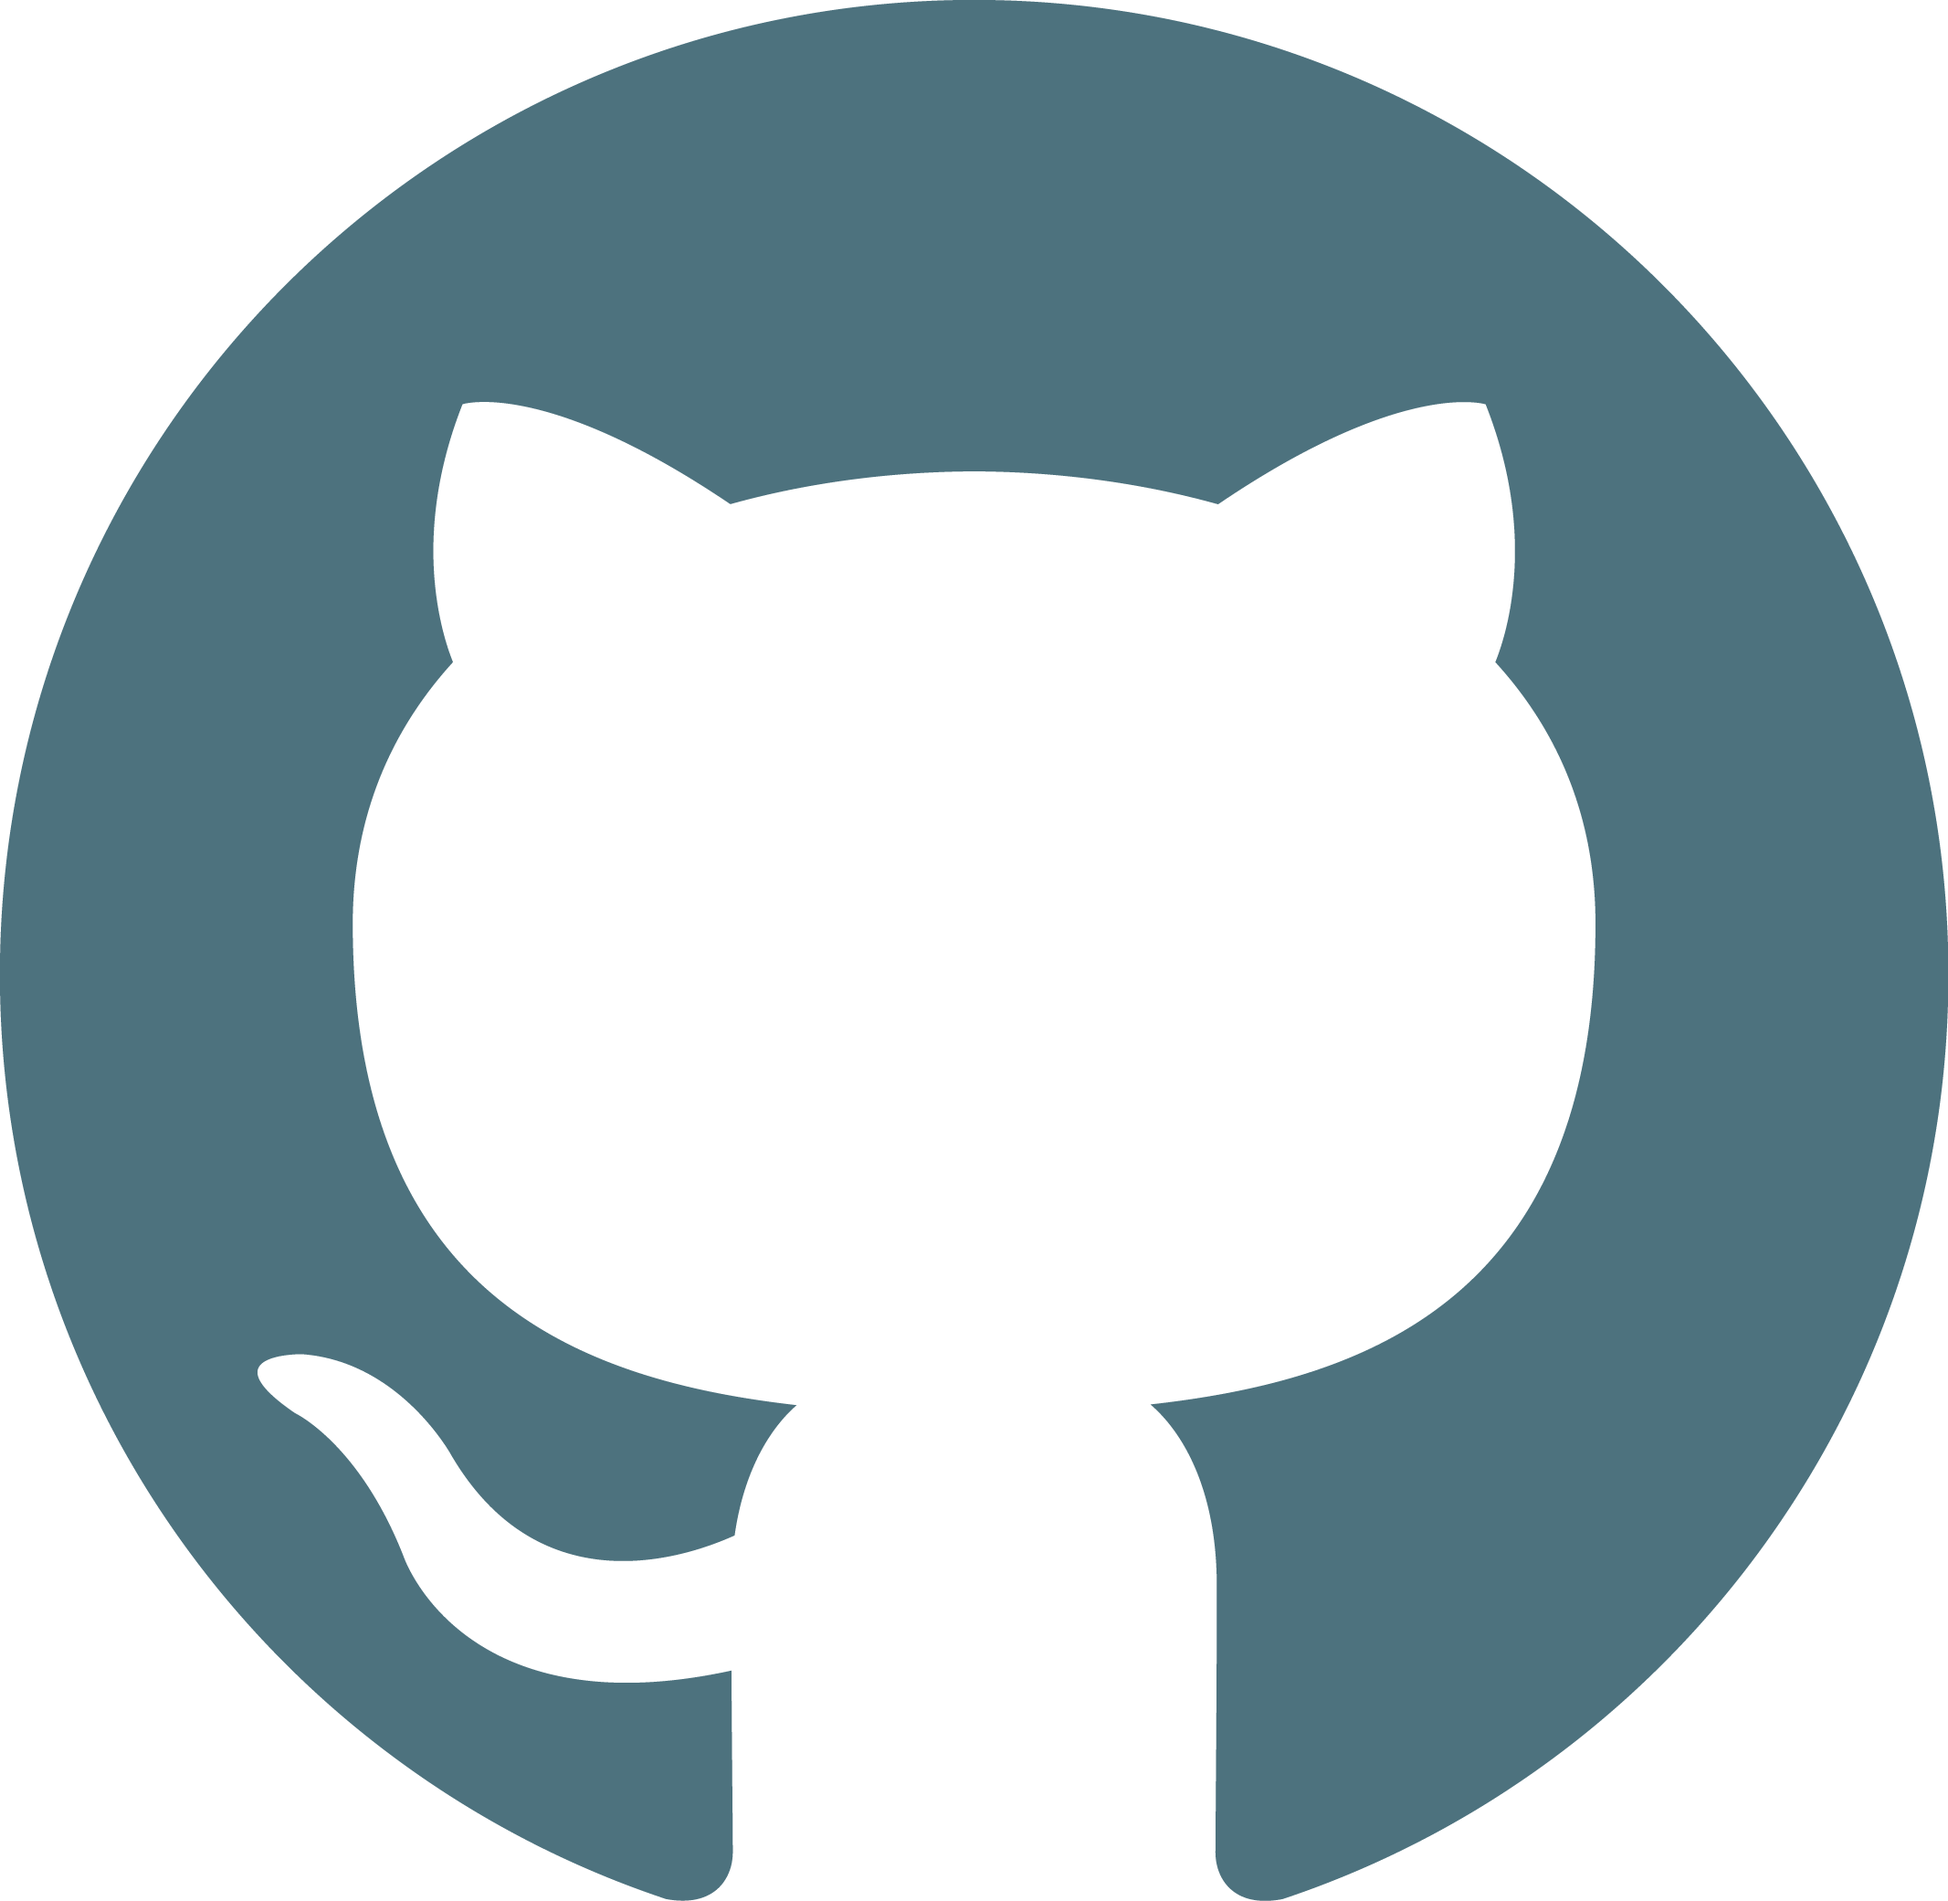
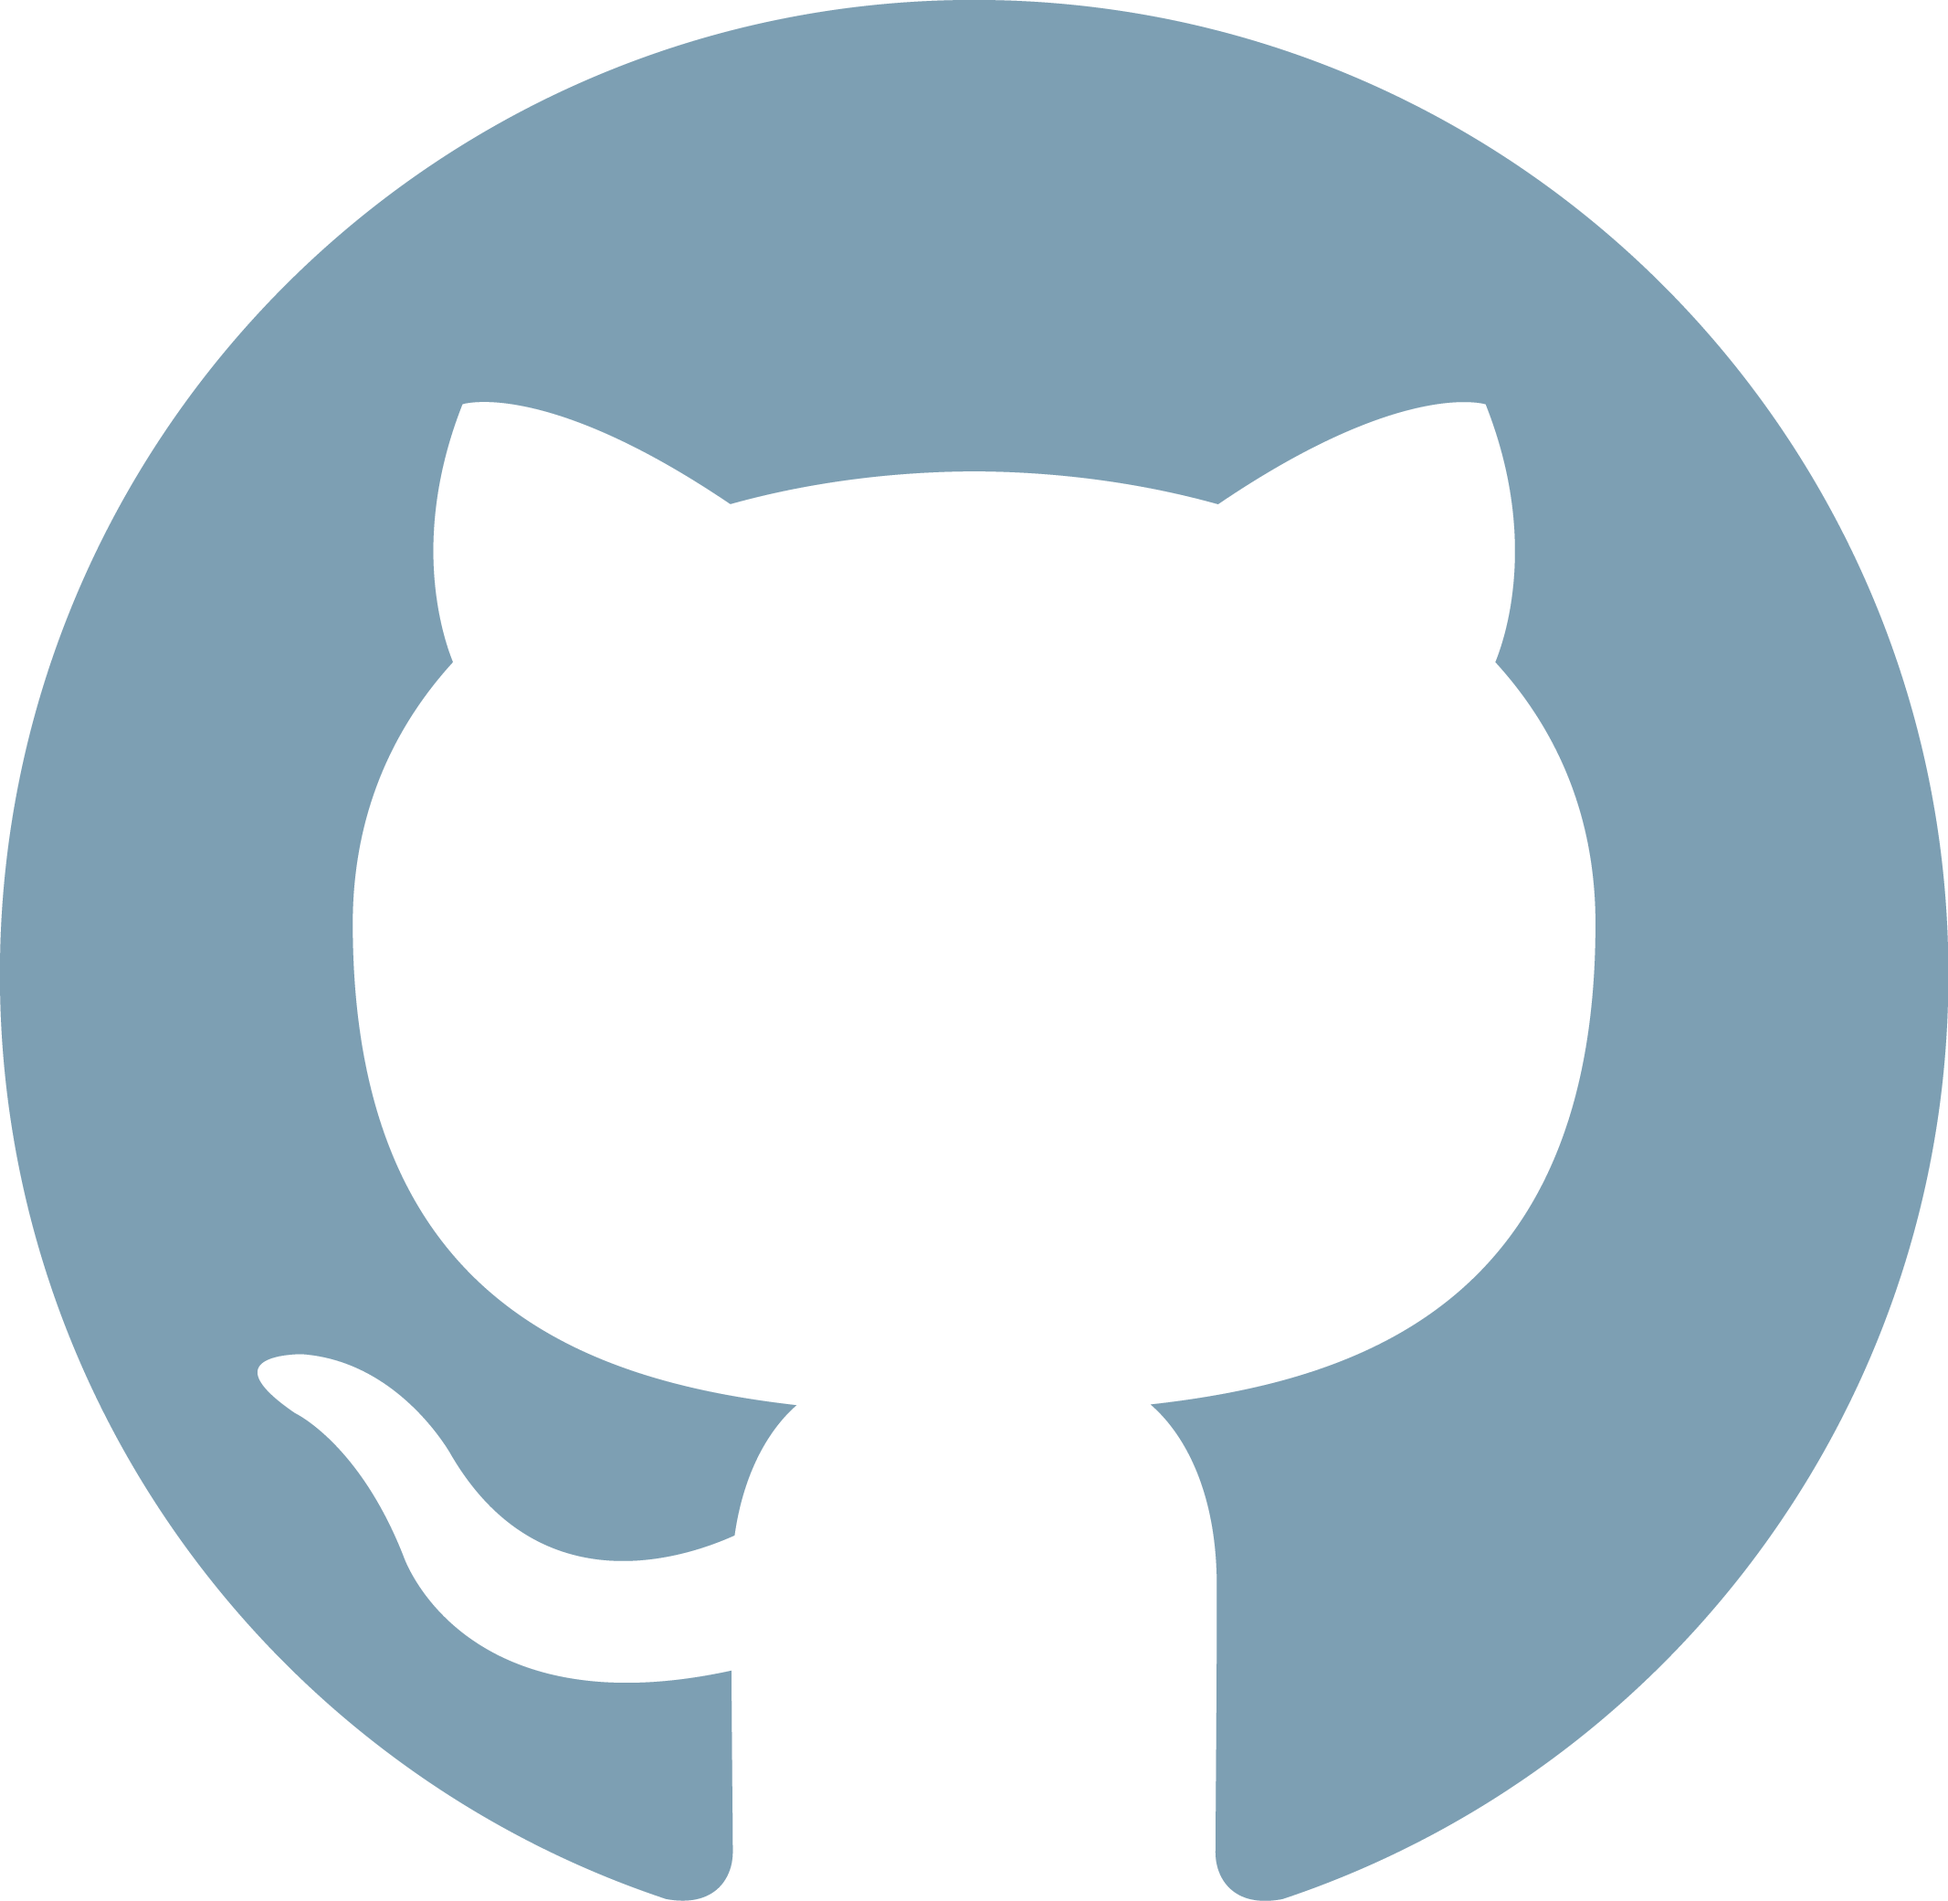
update style contact, about, name, skills

diff --git a/app/styles/app.scss b/app/styles/app.scss
@@ -7,7 +7,6 @@ body {
 }
 
 a {
-  color: white;
   text-decoration: none;
 }
 
@@ -40,6 +39,12 @@ li {
   flex-direction: column;
 }
 
+.col-6 {
+  width: 50%;
+  display: flex;
+  flex-direction: column;
+}
+
 .col-4 {
   width: 33.33%;
   display: flex;
@@ -51,40 +56,67 @@ li {
   margin-bottom: 0;
 }
 
+.med-paragraph {
+  font-size: 16px;
+}
+
 
 // index styles
+
+#row1, #education, {
+  border-bottom: solid 1px $light-teal;
+}
+
+#row1 {
+  border-top: solid 1px $light-teal;
+  margin-top: 5px;
+}
+
+#connect {
+  border-right: solid 1px $light-teal;
+  display: block;
+  p {
+    color: $light-blue;
+    margin-bottom: 20px;
+  }
+}
+
  .main {
    width: 800px;
    margin: auto;
  }
 
+ .contact-list {
+   margin: 0;
+   li:nth-child(2) {
+     margin: 0 20px;
+   }
+   img {
+     width: 30px;
+     opacity: 0.7;
+   }
+ }
+
  #about {
-   background-color: $light-teal;
-   text-align: center;
+   padding: 0 20px;
+   p {
+     color: $light-teal;
+   }
  }
 
  #name {
    h1 {
-     font-size: 60px;
+     font-size: 96px;
      color: $dark-blue;
-     margin-bottom: -10px;
+     margin: 0px;
      padding-bottom: 0;
    }
    h2 {
      font-size: 40px;
      color: $dark-teal;
-     margin-top: 0;
+     margin-top: -20px;
      margin-bottom: 5px;
      padding-top: 0;
-   }
-   img {
-     width: 30px;
-   }
-   ul {
-     margin: 0;
-     li:nth-child(2) {
-       margin: 0 20px;
-     }
    }
  }
 
@@ -93,16 +125,19 @@ li {
    display: flex;
    flex-wrap: wrap;
    flex-direction: row;
-   border-left: solid 1px $light-blue;
+   border-left: solid 1px $light-teal;
    color: $light-blue;
    margin: 5px 0;
-   padding: 0 40px;
+   p {
+     margin-left: 40px;
+   }
    .skills-list {
-     -moz-column-count: 2;
-    -moz-column-gap: 30px;
-    -webkit-column-count: 2;
-    -webkit-column-gap: 30px;
-     column-count: 2;
+     margin-left: 40px;
+     -moz-column-count: 3;
+    -moz-column-gap: 50px;
+    -webkit-column-count: 3;
+    -webkit-column-gap: 50px;
+     column-count: 3;
      column-gap: 50px;
      li {
        display: list-item;
@@ -110,15 +145,18 @@ li {
    }
  }
 
- .skills-screen {
+ .skills-cover {
    position: absolute;
    top: 0;
    left: 0;
    height: 100%;
    width: 100%;
-   background-color: $light-blue;
-   color: white;
-   h1 {
+   background-color: white;
+   color: $light-blue;
+   h2 {
+     text-align: center;
+     font-size: 30px;
+     width: inherit;
      margin: 0;
      position: absolute;
      top: 50%;

diff --git a/app/data/content.js b/app/data/content.js
@@ -1,6 +1,6 @@
 
 export default {
-  skills: [{name: 'HTML/CSS'}, {name: 'SASS'}, {name: 'Javascript'}, {name: 'jQuery'}, {name: 'Node'}, {name: 'React'}, {name: 'Express'}, {name: 'Handlebars'}, {name: 'Photoshop'}, {name: 'Illustrator'}, {name: 'InDesign'}],
+  skills: [{name: 'HTML/CSS'}, {name: 'SASS'}, {name: 'Javascript'}, {name: 'jQuery'}, {name: 'Git'}, {name: 'APIs'}, {name: 'Node'}, {name: 'React'}, {name: 'Express'}, {name: 'Handlebars'}, {name: 'MongoDB'}, {name: 'MySQL'}, {name: 'Photoshop'}, {name: 'Illustrator'}, {name: 'InDesign'}],
   education: [
     {
       title: 'Undergraduate Degree',

diff --git a/app/controllers/index.js b/app/controllers/index.js
@@ -6,7 +6,10 @@ export default Ember.Controller.extend({
   education: data.education,
   actions: {
     slideDisplay() {
-      $('.skills-screen').animate({width: 0});
+      $('.skills-cover h2').css({color: 'white'});
+      $('.skills-cover').animate({width: 0}, function() {
+        $('.skills-cover h2').hide();
+      });
     }
   }
 });
